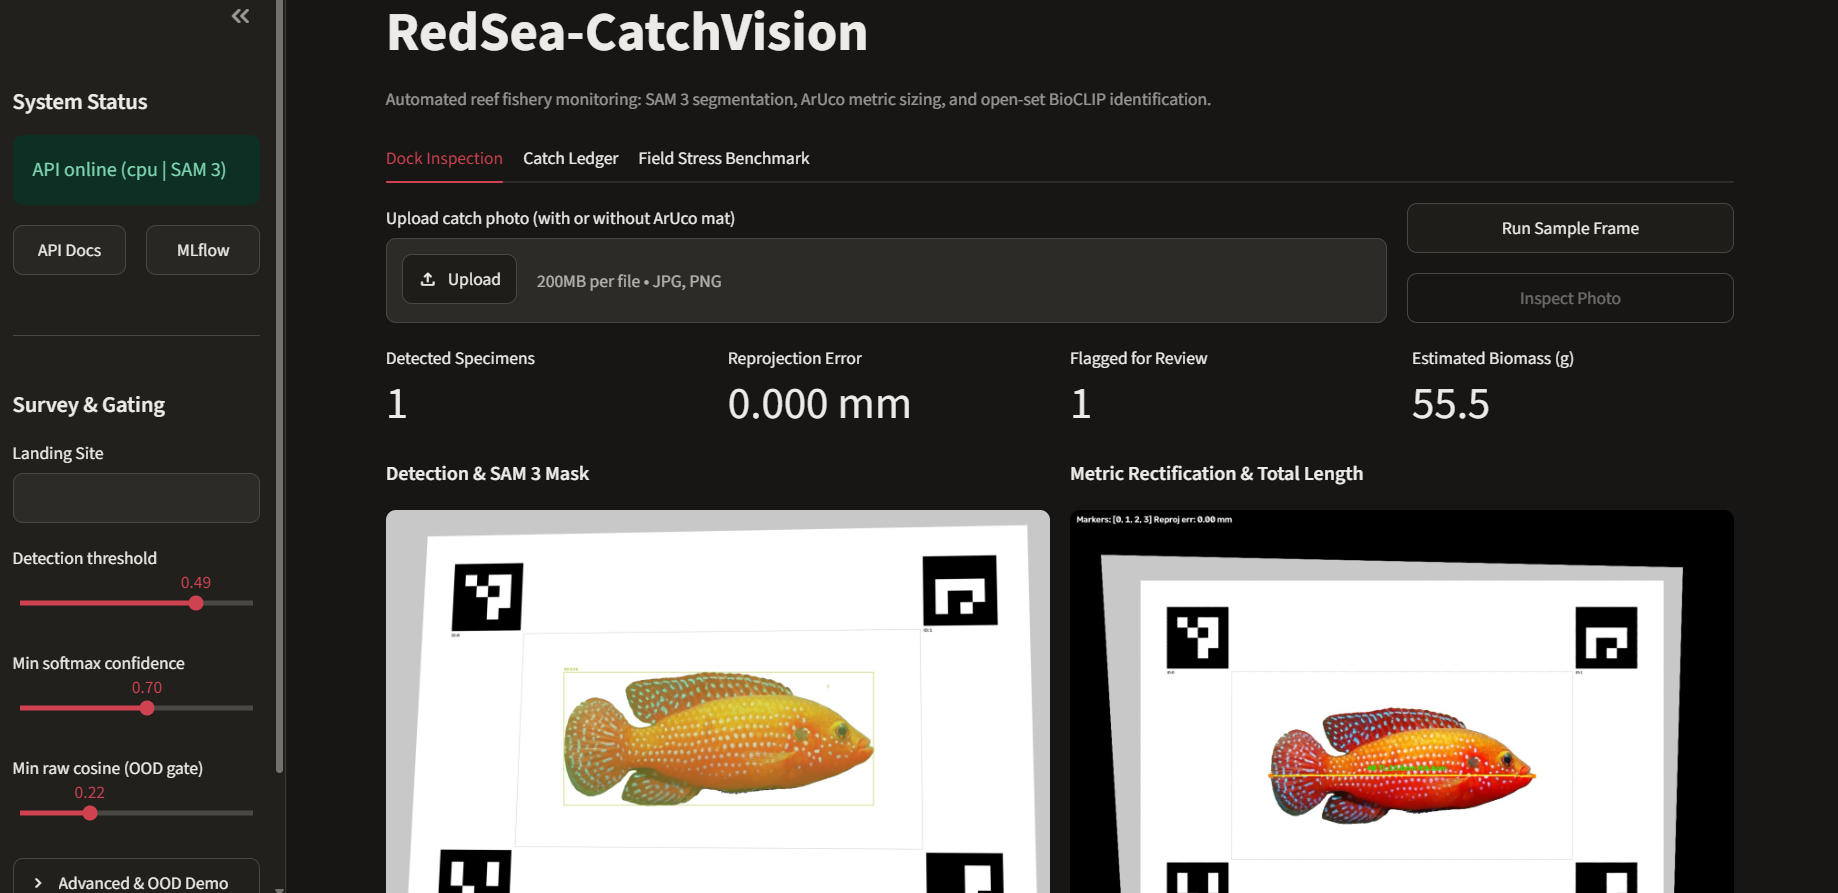
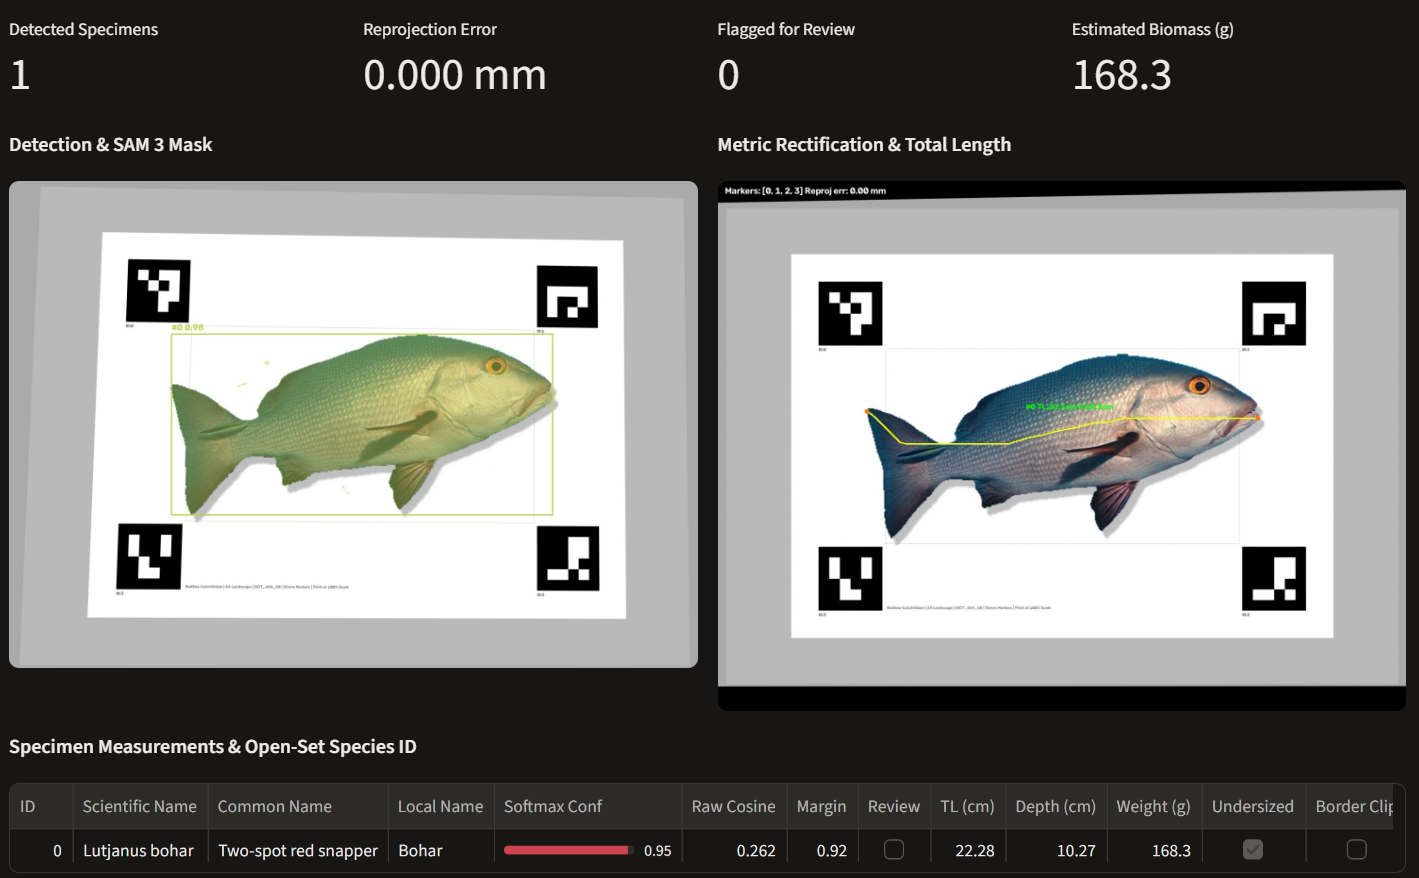
Added new screenshots to the README.md and some UI polishing

diff --git a/app/dashboard.py b/app/dashboard.py
@@ -70,7 +70,7 @@ def fetch_ledger(base_url: str, limit: int = 100) -> dict[str, list[dict[str, ob
 
 @st.cache_data(ttl=60, show_spinner=False)
 def fetch_benchmark_summary(base_url: str) -> dict[str, object]:
-    resp = httpx.get(f"{base_url}/api/v1/benchmark", timeout=10.0)
+    resp = httpx.get(f"{base_url}/api/v1/benchmark", timeout=15.0)
     resp.raise_for_status()
     return resp.json()
 
@@ -366,7 +366,7 @@ with tab_bench:
                             "scenarios": selected_scenarios,
                             "severities": sev_choice or [0.4],
                         },
-                        timeout=300.0,
+                        timeout=1200.0,
                     )
                     b_resp.raise_for_status()
                     fetch_benchmark_summary.clear()
@@ -389,26 +389,37 @@ with tab_bench:
         st.dataframe(bench_summary, use_container_width=True, hide_index=True)
 
         c_l, c_r = st.columns(2)
+        plot_df = bench_summary.copy()
+        plot_df["severity"] = plot_df["severity"].astype(str)
         with c_l:
             fig_err = px.bar(
-                bench_summary,
+                plot_df,
                 x="scenario",
                 y="mape_length_pct",
                 color="severity",
                 barmode="group",
-                labels={"scenario": "Scenario", "mape_length_pct": "Length Error (%)"},
+                labels={
+                    "mape_length_pct": "Length Error (%)",
+                    "scenario": "",
+                    "severity": "Severity",
+                },
                 title="Metric Sizing Error (MAPE %)",
             )
             fig_err.add_hline(y=2.0, line_dash="dash", line_color="red")
             st.plotly_chart(style_plotly(fig_err), use_container_width=True)
         with c_r:
             fig_conf = px.bar(
-                bench_summary,
+                plot_df,
                 x="scenario",
                 y="mean_cls_conf",
                 color="severity",
                 barmode="group",
-                labels={"scenario": "Scenario", "mean_cls_conf": "Mean Confidence"},
+                range_y=[0, 1.05],
+                labels={
+                    "mean_cls_conf": "Mean Confidence",
+                    "scenario": "",
+                    "severity": "Severity",
+                },
                 title="BioCLIP Top-1 Confidence",
             )
             st.plotly_chart(style_plotly(fig_conf), use_container_width=True)

diff --git a/README.md b/README.md
@@ -17,7 +17,7 @@ I built this project to explore how foundation vision models can automate docksi
 ![Field Stress Benchmark](docs/assets/stress_benchmark.png)
 *Synthetic robustness tests under glare, water droplets, low light, motion blur, and occluded markers.*
 
-
+![Perturbed Samples](docs/assets/perturbed.png)
 </details>
 
 ---
@@ -49,14 +49,14 @@ Tested on unconstrained underwater iNaturalist photos across **10 Red Sea specie
 
 > **Why raw cosine matters:** On a camouflaged *Arothron stellatus* frame, closed-set softmax predicted *Epinephelus polyphekadion* with `0.99` confidence, while raw cosine similarity was only `0.205`—correctly triggering manual review.
 
-### 2. Dockside Stress Benchmark (`synthetic_tilted.jpg`, 150.0 mm GT TL)
+### 2. Dockside Stress Benchmark (`Lutjanus_bohar_230mm.jpg`, 230.0 mm GT TL)
 Tested synthetic degradations (`sun_glare`, `water_droplets`, `low_light`, `motion_blur`, and 1–2 occluded markers) at severities `0.4` and `0.8`:
 
 | Metric | Result | Notes |
 | :--- | :---: | :--- |
-| **Calibration Success** | **100%** | Fallback to marker corners handles up to 2 occluded markers |
-| **Mean Length Error (MAPE)** | **0.41%** (`~0.6 mm` MAE) | Well below the 2% field target |
-| **Species Consistency** | **100%** | Consistent predictions across tested lighting/blur runs |
+| **Calibration Success** | **100%** (11/12 scenarios) | Handles glare, droplets, low light, and up to 2 occluded markers; fails only at extreme motion blur (`0.8`) |
+| **Mean Length Error (MAPE)** | **2.59% – 3.75%** (`6.0 – 8.7 mm` MAE) | Stable geodesic TL estimation across all calibrated perturbations |
+| **Species Consistency** | **100%** (11/12 scenarios) | Consistent *Lutjanus bohar* identification even when extreme blur disables ArUco calibration |
 
 ---
 
@@ -71,7 +71,7 @@ Tested synthetic degradations (`sun_glare`, `water_droplets`, `low_light`, `moti
 ## Quickstart
 
 ```bash
-git clone https://github.com/DanilKras/RedSea_CatchVision.git
+git clone [https://github.com/DanilKras/RedSea_CatchVision.git](https://github.com/DanilKras/RedSea_CatchVision.git)
 cd RedSea_CatchVision
 
 # Start Streamlit UI (:8501), FastAPI (:8000), and MLflow (:5000)
